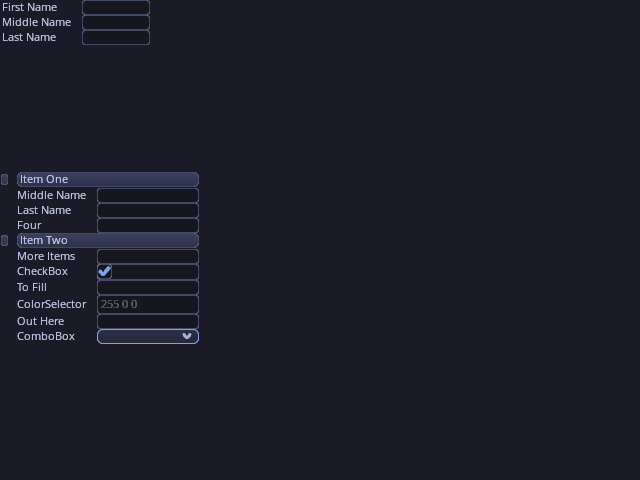
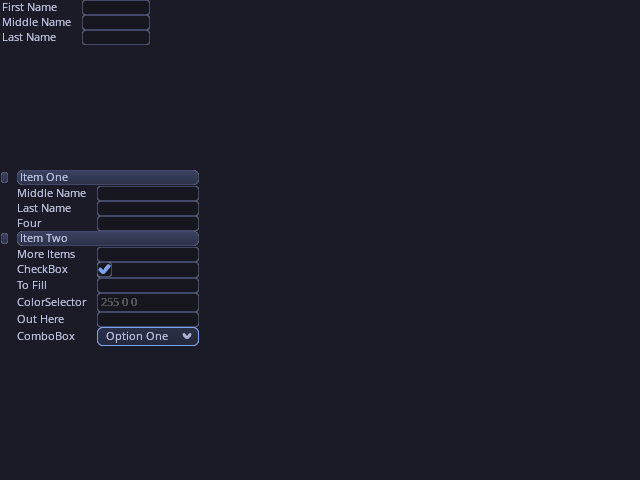
ComboBoxDemo: Fixed 200 px combos without the dead setPos; add it to the gallery
Each combo is {Fixed, Shrink} at setWidth(200): 200 wide, as high as its
content. The setPos calls did nothing under the VerticalLayout. ComboBoxDemo
joins SAMPLES and the README gallery; PropertiesDemo.png is regenerated too,
as its ComboBox row now shows "Option One" and is 19 px high.

Changed region(s): [[0.0, 0.3438, 0.3125, 0.7188]]

diff --git a/examples/demo/comboBox.cpp b/examples/demo/comboBox.cpp
@@ -12,7 +12,7 @@ GWENI_CONTROL_CONSTRUCTOR(ComboBoxDemo)
     {
         controls::ComboBox *combo=newChild<controls::ComboBox>();
 
-        combo->setPos(50, 50);
+        combo->setSizeFlags({SizeFlag::Fixed, SizeFlag::Shrink});
         combo->setWidth(200);
         combo->addItem("Option One", "one");
         combo->addItem("Number Two", "two");
@@ -25,14 +25,14 @@ GWENI_CONTROL_CONSTRUCTOR(ComboBoxDemo)
         // Empty..
         controls::ComboBox *combo=newChild<controls::ComboBox>();
 
-        combo->setPos(50, 80);
+        combo->setSizeFlags({SizeFlag::Fixed, SizeFlag::Shrink});
         combo->setWidth(200);
     }
     {
-        // Empty..
+        // Lots of items
         controls::ComboBox *combo=newChild<controls::ComboBox>();
 
-        combo->setPos(50, 110);
+        combo->setSizeFlags({SizeFlag::Fixed, SizeFlag::Shrink});
         combo->setWidth(200);
 
         for(int i=0; i < 500; i++)

diff --git a/README.md b/README.md
@@ -37,6 +37,8 @@ implemented-vs-planned status, and [docs/layout.md](docs/layout.md) for the layo
 | **ListBox** | **Slider** |
 | ![Text](docs/images/TextDemo.png) | ![ProgressBar](docs/images/ProgressBarDemo.png) |
 | **Text** (OpenSans 8-16 px) | **ProgressBar** |
+| ![ComboBox](docs/images/ComboBoxDemo.png) | |
+| **ComboBox** | |
 
 Each control is shown on its own in `ControlTest`. All of these images are rendered offscreen by
 `tools/capture_samples.sh` (see `AGENTS.md`).
